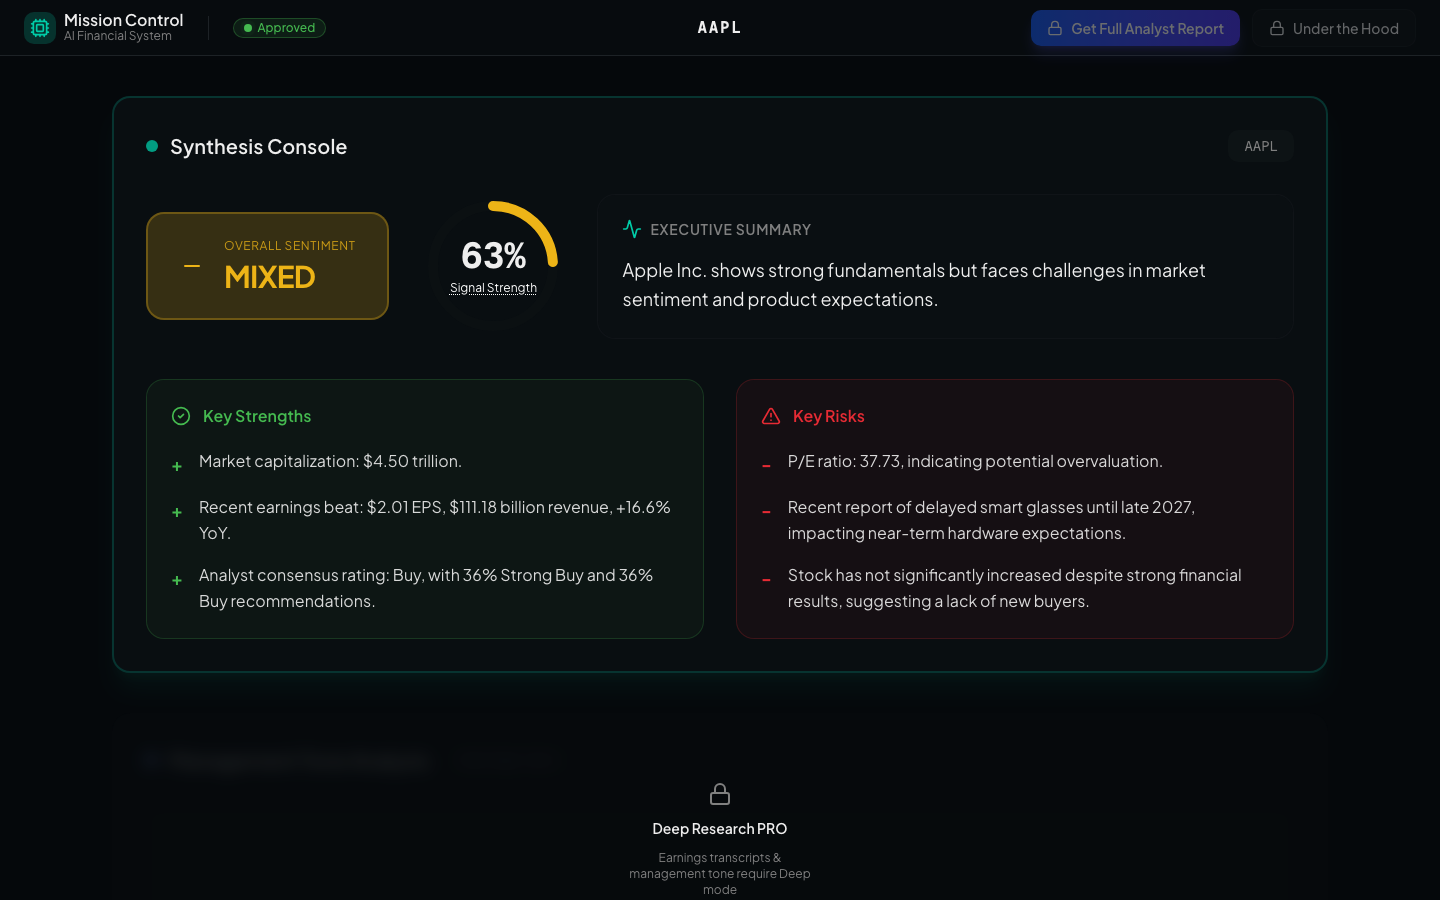
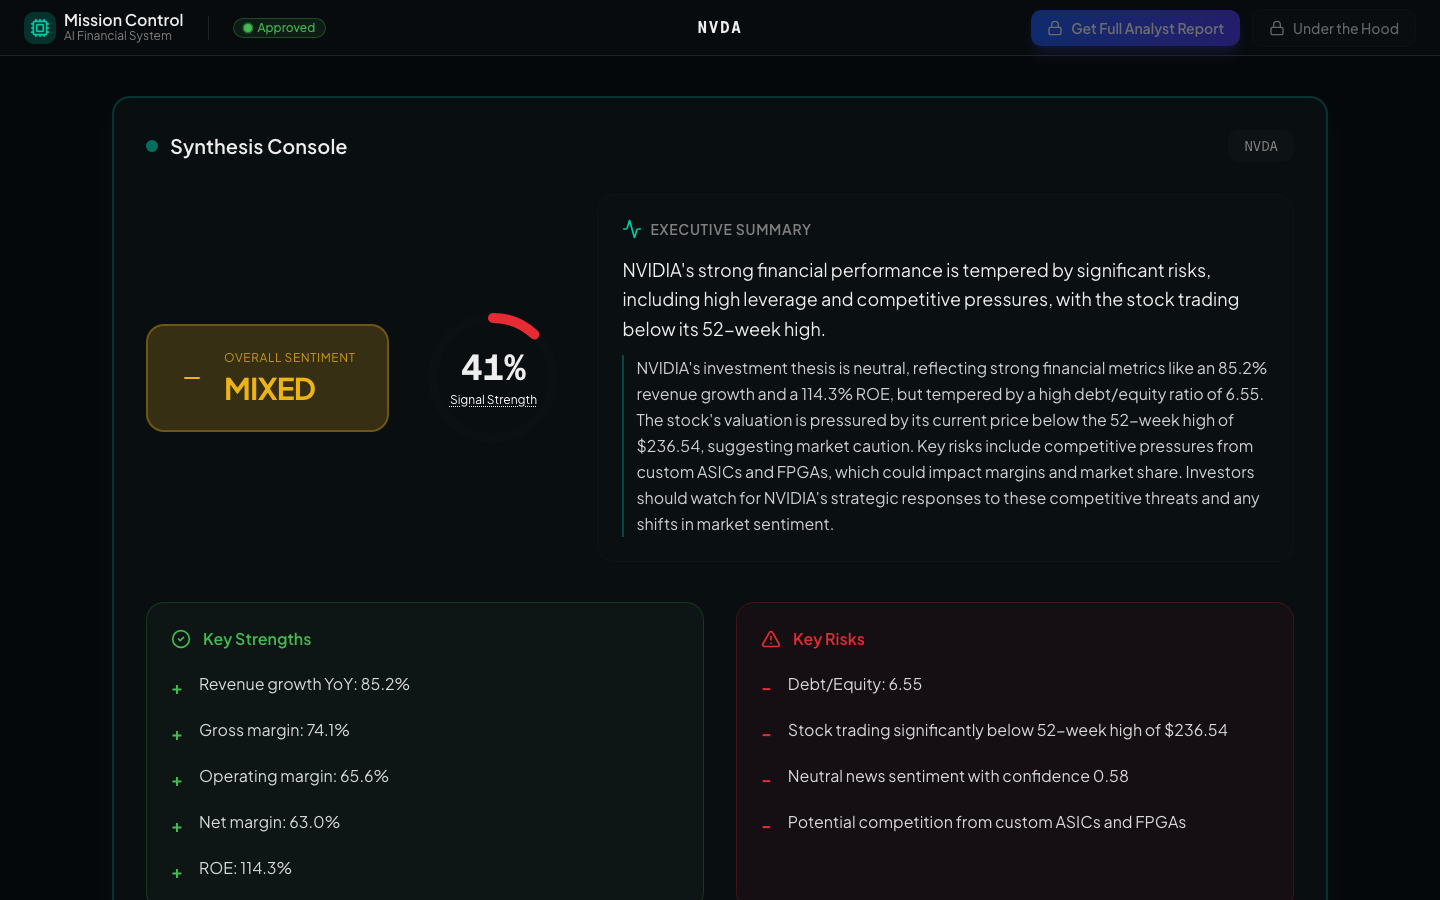
docs: add deep mode screenshots and replace fast mode stock
- Fast mode: replaced AAPL with NVDA
- Deep mode: AMZN synthesis console and AI Debate Bull vs. Bear screenshots
- README sections reorganised with captions per screenshot

diff --git a/README.md b/README.md
@@ -35,11 +35,23 @@ Two modes serve different needs:
 | **Fast** | ~5 s | Data + Sentiment + Manager | One-line view, key strengths/risks, sentiment snapshot |
 | **Deep** | ~30-50 s | Full multi-agent pipeline with debate, SEC, transcripts, critic loop | Bull vs. Bear narrative, executive summary, management tone analysis, exportable PDF |
 
-![Fast Mode — Synthesis Console, Key Strengths & Risks](docs/assets/02-fast-result.png)
-*Fast mode: Synthesis Console with overall sentiment, signal strength, key strengths & risks. Results in ~5s.*
+### Fast Mode — Results in ~5s
+
+![Fast Mode — NVDA Synthesis Console](docs/assets/02-fast-result.png)
+*Synthesis Console with overall sentiment, signal strength, executive summary, key strengths & risks.*
+
+### Deep Mode — Full Institutional Analysis
+
+![Deep Mode — AMZN Synthesis Console](docs/assets/04-deep-result.png)
+*Deep mode adds real-time market data, news sentiment panel, and the full multi-agent pipeline output.*
+
+![Deep Mode — AI Debate Bull vs. Bear](docs/assets/05-deep-bull-bear.png)
+*Bull Agent and Bear Agent argue the thesis in parallel — Manager synthesises, Critic audits.*
+
+### Loading — Live Agent Progress
 
 ![Loading — AI agents processing](docs/assets/03-loading.png)
-*Real-time progress display during analysis with weighted asymptotic progress bar.*
+*Real-time progress display with weighted asymptotic progress bar. Never stalls at 90%.*
 
 ---
 
